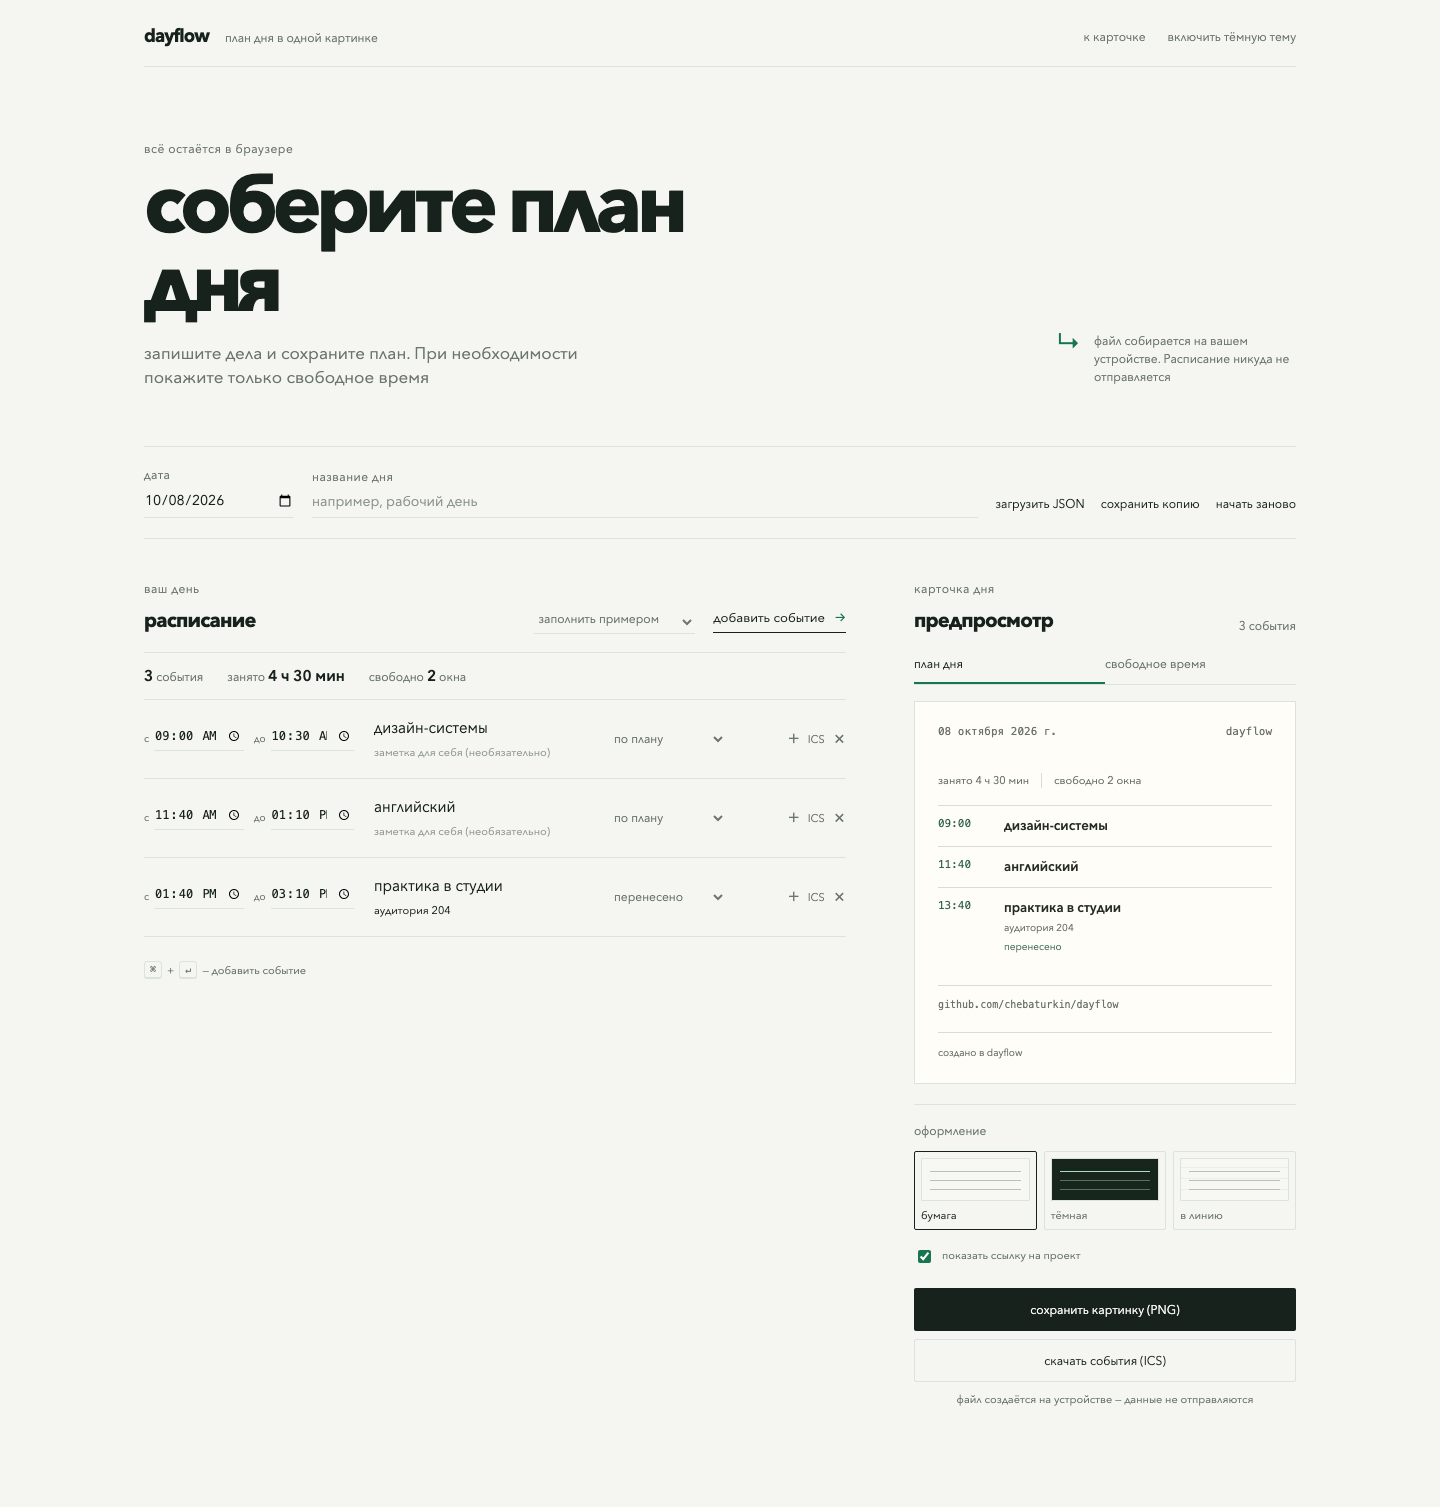
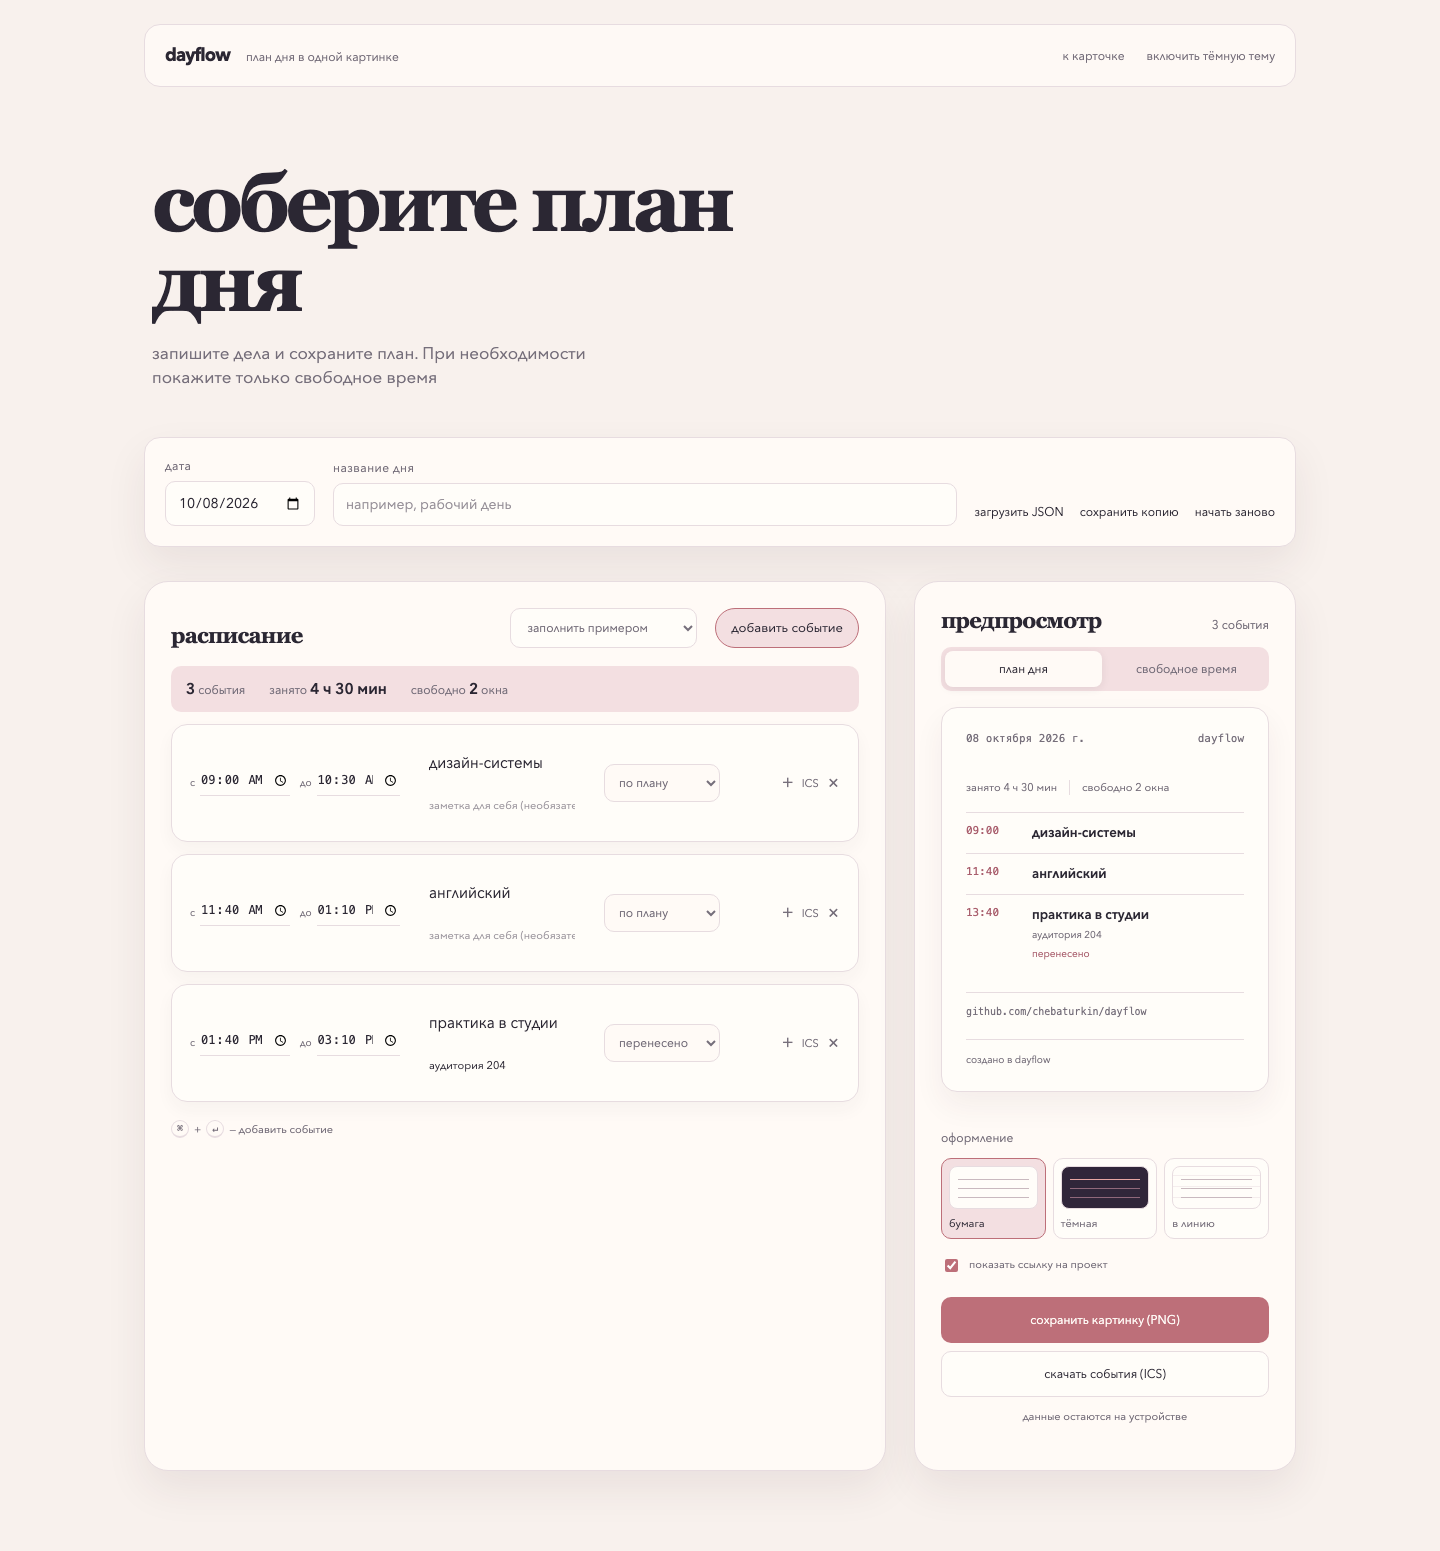
feat: refresh dayflow visual language

diff --git a/src/styles/global.css b/src/styles/global.css
@@ -1,75 +1,60 @@
 :root {
-  --bg: #f5f6f1;
-  --surface: #fbfcf8;
-  --paper: #ffffff;
-  --ink: #18221c;
-  --muted: #6b766e;
-  --line: #dce2dc;
-  --accent: #16764e;
-  --accent-soft: #e4efe7;
-  --warning: #885d2f;
+  --bg: #f8f1ed; --surface: #fffaf6; --paper: #fffdf9; --ink: #2b2733;
+  --muted: #766f7b; --line: #e7dce0; --accent: #bd6f79; --accent-soft: #f3dfe1;
+  --warning: #a76451; --shadow: 0 18px 42px rgba(62, 39, 50, .08);
+  --radius-sm: 10px; --radius-md: 16px; --radius-lg: 24px;
   font-family: "Avenir Next", "Segoe UI", ui-sans-serif, system-ui, sans-serif;
 }
 
 html.dark {
-  --bg: #101a14;
-  --surface: #17251d;
-  --paper: #1b2c22;
-  --ink: #f3f6f0;
-  --muted: #b4c1b8;
-  --line: #3f5747;
-  --accent: #a8dfb9;
-  --accent-soft: #243f2e;
-  --warning: #e1b77e;
+  --bg: #1b1723; --surface: #272131; --paper: #30263a; --ink: #fbf1ee;
+  --muted: #cbbbc3; --line: #4a3a50; --accent: #e6a6a3; --accent-soft: #4a2f3a;
+  --warning: #efb08b; --shadow: 0 18px 42px rgba(5, 3, 10, .26);
 }
 
 * { box-sizing: border-box; }
 html { scroll-behavior: smooth; }
 body { margin: 0; background: var(--bg); color: var(--ink); transition: background .18s ease, color .18s ease; }
 button, input, select { font: inherit; }
-button:focus-visible, a:focus-visible, input:focus-visible, select:focus-visible { outline: 2px solid var(--accent); outline-offset: 4px; }
+button:focus-visible, a:focus-visible, input:focus-visible, select:focus-visible { outline: 3px solid color-mix(in srgb, var(--accent) 52%, transparent); outline-offset: 3px; }
 button { color: inherit; }
 .shell { max-width: 1220px; margin: auto; padding: 24px 34px 80px; }
-.topbar { display: flex; align-items: center; justify-content: space-between; border-bottom: 1px solid var(--line); padding-bottom: 17px; }
+.topbar { display: flex; align-items: center; justify-content: space-between; border: 1px solid var(--line); border-radius: var(--radius-md); background: color-mix(in srgb, var(--surface) 82%, transparent); padding: 18px 20px; }
 .brand { display: flex; align-items: baseline; gap: 16px; }
 .wordmark { color: var(--ink); font-size: 18px; font-weight: 720; letter-spacing: -.05em; text-decoration: none; }
 .brand span, .topbar nav, .quiet-action { color: var(--muted); font-size: 12px; }
 .topbar nav { display: flex; align-items: center; gap: 22px; }
 .topbar a, .topbar button, .quiet-action { border: 0; background: transparent; color: inherit; padding: 0; text-decoration: none; cursor: pointer; }
 .topbar a:hover, .topbar button:hover, .quiet-action:hover { color: var(--ink); }
-.intro { display: flex; align-items: end; justify-content: space-between; gap: 48px; padding: 74px 0 56px; border-bottom: 1px solid var(--line); }
-.eyebrow { margin: 0 0 10px; color: var(--muted); font-size: 12px; letter-spacing: .04em; }
-.intro h1 { max-width: 650px; margin: 0 0 18px; font-size: clamp(44px, 7vw, 82px); font-weight: 680; letter-spacing: -.065em; line-height: .96; }
+.intro { display: flex; align-items: end; justify-content: space-between; gap: 48px; padding: 76px 8px 48px; }
+.intro h1 { max-width: 650px; margin: 0 0 18px; font-family: Georgia, "Times New Roman", serif; font-size: clamp(44px, 7vw, 82px); font-weight: 700; letter-spacing: -.055em; line-height: .98; }
 .lede { max-width: 440px; margin: 0; color: var(--muted); font-size: 17px; line-height: 1.4; }
-.intro-note { display: flex; align-items: flex-start; gap: 14px; max-width: 240px; padding-bottom: 4px; }
-.intro-note p { margin: 0; color: var(--muted); font-size: 12px; line-height: 1.5; }
-.intro-note-mark { color: var(--accent); font: 24px/1 Georgia, serif; }
-.document-bar { display: grid; grid-template-columns: 150px minmax(180px, 1fr) auto; align-items: end; gap: 18px; border-bottom: 1px solid var(--line); padding: 20px 0; }
-.date-field, .label-field { display: flex; flex-direction: column; gap: 7px; }
+.document-bar { display: grid; grid-template-columns: 150px minmax(180px, 1fr) auto; align-items: end; gap: 18px; border: 1px solid var(--line); border-radius: var(--radius-md); background: var(--surface); box-shadow: var(--shadow); padding: 20px; }
+.date-field, .label-field { display: flex; min-width: 0; flex-direction: column; gap: 7px; }
 .date-field span, .label-field span { color: var(--muted); font-size: 12px; letter-spacing: .04em; }
-.date-field input, .label-field input { min-width: 0; border: 0; border-bottom: 1px solid var(--line); border-radius: 0; background: transparent; color: var(--ink); padding: 0 0 6px; font-size: 14px; }
+.date-field input, .label-field input { min-width: 0; border: 1px solid var(--line); border-radius: var(--radius-sm); background: var(--paper); color: var(--ink); padding: 11px 12px; font-size: 14px; }
 .label-field input::placeholder { color: var(--muted); opacity: .75; }
 .document-actions { display: flex; align-items: center; gap: 16px; padding-bottom: 6px; }
-.layout { display: grid; grid-template-columns: minmax(0, 1fr) 382px; gap: 68px; padding-top: 42px; }
+.layout { display: grid; grid-template-columns: minmax(0, 1fr) 382px; gap: 28px; min-width: 0; padding-top: 34px; }
+.planner, .export { min-width: 0; border: 1px solid var(--line); border-radius: var(--radius-lg); background: var(--surface); box-shadow: var(--shadow); padding: 26px; }
 .section-head, .export-head { display: flex; justify-content: space-between; align-items: end; gap: 16px; margin-bottom: 18px; }
-.section-head h2, .export-head h2 { margin: 0; font-size: 20px; font-weight: 650; letter-spacing: -.04em; }
+.section-head h2, .export-head h2 { margin: 0; font-family: Georgia, "Times New Roman", serif; font-size: 22px; font-weight: 700; letter-spacing: -.035em; }
 .head-actions { display: flex; align-items: center; gap: 18px; }
-.preset-label select { border: 0; border-bottom: 1px solid var(--line); background: transparent; color: var(--muted); padding: 0 20px 5px 0; font-size: 12px; cursor: pointer; }
-.text-action { border: 0; border-bottom: 1px solid var(--ink); background: transparent; color: var(--ink); padding: 0 0 5px; cursor: pointer; font-size: 13px; }
-.text-action span { margin-left: 6px; color: var(--accent); }
-.summary-strip { display: flex; flex-wrap: wrap; gap: 24px; border-top: 1px solid var(--line); border-bottom: 1px solid var(--line); padding: 13px 0; color: var(--muted); font-size: 12px; }
+.preset-label select { border: 1px solid var(--line); border-radius: var(--radius-sm); background: var(--paper); color: var(--muted); padding: 10px 32px 10px 12px; font-size: 12px; cursor: pointer; }
+.text-action { border: 1px solid var(--accent); border-radius: 999px; background: var(--accent-soft); color: var(--ink); padding: 10px 15px; cursor: pointer; font-size: 13px; }
+.summary-strip { display: flex; flex-wrap: wrap; gap: 24px; border: 0; border-radius: var(--radius-sm); background: var(--accent-soft); padding: 13px 15px; color: var(--muted); font-size: 12px; }
 .summary-strip strong { color: var(--ink); font-size: 15px; font-weight: 600; }
-.conflict { border-bottom: 1px solid var(--line); color: var(--warning); padding: 11px 0; font-size: 12px; }
-.lesson { display: grid; grid-template-columns: minmax(192px, 210px) minmax(0, 1fr) 116px 102px; gap: 18px; align-items: center; border-bottom: 1px solid var(--line); padding: 17px 0; animation: enter .16s ease both; }
+.conflict { border: 1px solid color-mix(in srgb, var(--warning) 36%, var(--line)); border-radius: var(--radius-sm); background: color-mix(in srgb, var(--warning) 10%, var(--surface)); color: var(--warning); margin-top: 12px; padding: 11px 13px; font-size: 12px; }
+.lesson { display: grid; grid-template-columns: minmax(192px, 210px) minmax(0, 1fr) 116px 102px; gap: 18px; align-items: center; margin-top: 12px; border: 1px solid var(--line); border-radius: var(--radius-md); background: var(--paper); padding: 18px; box-shadow: 0 8px 18px rgba(62, 39, 50, .04); animation: enter .16s ease both; }
 .time-fields { display: grid; grid-template-columns: minmax(0, 1fr) minmax(0, 1fr); gap: 10px; min-width: 0; }
 .time-fields label { display: grid; grid-template-columns: auto minmax(0, 1fr); align-items: center; gap: 5px; min-width: 0; color: var(--muted); font-size: 10px; }
 .time-fields input { width: 100%; min-width: 0; display: block; border: 0; border-bottom: 1px solid var(--line); background: transparent; color: var(--ink); padding: 0 0 5px; font: 12px/1.2 ui-monospace, SFMono-Regular, Menlo, monospace; }
 .lesson-main { min-width: 0; display: grid; gap: 5px; }
-.lesson input:not([type="time"]), .lesson select { width: 100%; min-width: 0; border: 0; background: transparent; color: var(--ink); }
-.lesson .title { font-size: 15px; }
+.lesson input:not([type="time"]), .lesson select { width: 100%; min-width: 0; border: 1px solid transparent; border-radius: var(--radius-sm); background: transparent; color: var(--ink); padding: 9px 10px; }
+.lesson .title { background: var(--surface); font-size: 15px; }
 .lesson .note { color: var(--muted); font-size: 11px; }
 .lesson .note::placeholder { color: var(--muted); opacity: .7; }
-.lesson select { color: var(--muted); font-size: 12px; cursor: pointer; }
+.lesson select { border-color: var(--line); background: var(--surface); color: var(--muted); font-size: 12px; cursor: pointer; }
 .lesson.cancelled .title { color: var(--muted); text-decoration: line-through; }
 .lesson.cancelled .note { opacity: .55; }
 .row-actions { display: flex; justify-content: end; align-items: center; gap: 8px; }
@@ -78,16 +63,16 @@ button { color: inherit; }
 .row-actions .duplicate { font-size: 18px; line-height: 1; }
 .row-actions .remove { font-size: 20px; line-height: 1; }
 .empty-editor { color: var(--muted); font-size: 13px; }
-.keyboard-note { display: flex; align-items: center; gap: 5px; margin-top: 24px; color: var(--muted); font-size: 11px; }
-kbd { border: 1px solid var(--line); border-bottom-width: 2px; border-radius: 3px; padding: 2px 5px; font: 10px ui-monospace, SFMono-Regular, Menlo, monospace; }
+.keyboard-note { display: flex; align-items: center; gap: 5px; margin-top: 18px; color: var(--muted); font-size: 11px; }
+kbd { border: 1px solid var(--line); border-bottom-width: 2px; border-radius: var(--radius-sm); padding: 2px 5px; font: 10px ui-monospace, SFMono-Regular, Menlo, monospace; }
 .export { align-self: start; }
 .export-head { margin-bottom: 14px; }
 .count { color: var(--muted); font-size: 12px; }
-.mode-switch { display: grid; grid-template-columns: 1fr 1fr; border-bottom: 1px solid var(--line); margin-bottom: 16px; }
-.mode { border: 0; border-bottom: 2px solid transparent; background: transparent; color: var(--muted); padding: 8px 0 10px; cursor: pointer; font-size: 12px; text-align: left; }
-.mode.active { border-bottom-color: var(--accent); color: var(--ink); }
-.preview-card { --card-paper: #fffdf8; --card-ink: #252b25; --card-muted: #697168; --card-line: #d9ddd4; --card-accent: #326249; min-height: 370px; background: var(--card-paper); border: 1px solid var(--line); color: var(--card-ink); padding: 23px; transition: background .18s ease, color .18s ease; }
-.preview-card[data-style="dark"] { --card-paper: #202720; --card-ink: #f4f3eb; --card-muted: #bac2b5; --card-line: #475145; --card-accent: #bad1ae; background: var(--card-paper); }
+.mode-switch { display: grid; grid-template-columns: 1fr 1fr; gap: 6px; border: 0; border-radius: var(--radius-sm); background: var(--accent-soft); margin-bottom: 16px; padding: 4px; }
+.mode { border: 0; border-radius: 8px; background: transparent; color: var(--muted); padding: 10px 12px; cursor: pointer; font-size: 12px; text-align: center; }
+.mode.active { background: var(--surface); color: var(--ink); box-shadow: 0 2px 8px rgba(43, 39, 51, .08); }
+.preview-card { --card-paper: #fffdf9; --card-ink: #2b2733; --card-muted: #766f7b; --card-line: #e7dce0; --card-accent: #a95e6d; min-height: 370px; background: var(--card-paper); border: 1px solid var(--line); border-radius: var(--radius-md); color: var(--card-ink); padding: 24px; box-shadow: 0 14px 30px rgba(62, 39, 50, .06); transition: background .18s ease, color .18s ease; }
+.preview-card[data-style="dark"] { --card-paper: #30263a; --card-ink: #fbf1ee; --card-muted: #cbbbc3; --card-line: #4a3a50; --card-accent: #e6a6a3; background: var(--card-paper); }
 .preview-card[data-style="lines"] { background: repeating-linear-gradient(0deg, var(--card-paper), var(--card-paper) 39px, var(--card-line) 40px); }
 .preview-card[data-mode="availability"] .card-line.free { background: var(--accent-soft); background: color-mix(in srgb, var(--card-accent) 14%, transparent); }
 .preview-card[data-mode="availability"] .card-line.free strong { color: var(--card-accent); }
@@ -108,26 +93,26 @@ kbd { border: 1px solid var(--line); border-bottom-width: 2px; border-radius: 3p
 .repo-link:hover { color: var(--card-ink); }
 .card-footer { border-top: 1px solid var(--card-line); margin-top: 22px; padding-top: 13px; color: var(--card-muted); font-size: 10px; }
 .empty { color: var(--card-muted); font-size: 13px; }
-.export-options { border-top: 1px solid var(--line); margin-top: 20px; padding-top: 18px; }
+.export-options { border-top: 0; margin-top: 20px; padding-top: 18px; }
 .option-label { color: var(--muted); font-size: 12px; margin: 0 0 12px; }
 .styles { display: grid; grid-template-columns: repeat(3, 1fr); gap: 7px; margin-bottom: 18px; }
-.style { display: flex; flex-direction: column; gap: 7px; border: 1px solid var(--line); border-radius: 2px; background: transparent; color: var(--muted); padding: 6px; cursor: pointer; font-size: 11px; text-align: left; }
-.style.active { border-color: var(--ink); color: var(--ink); }
-.mini-card { display: block; position: relative; width: 100%; height: 43px; overflow: hidden; border: 1px solid var(--line); border-radius: 1px; background: #f7f7f3; }
-.mini-card::after { position: absolute; top: 12px; right: 8px; left: 8px; height: 1px; background: #b7c1b9; box-shadow: 0 9px #b7c1b9, 0 18px #b7c1b9; content: ''; }
-.mini-dark { background: #17251d; }
-.mini-dark::after { background: #a8e0b9; box-shadow: 0 9px #557460, 0 18px #557460; }
-.mini-lines { background: repeating-linear-gradient(0deg, #f7f7f3, #f7f7f3 10px, #dfe4df 11px); }
+.style { display: flex; flex-direction: column; gap: 7px; border: 1px solid var(--line); border-radius: var(--radius-sm); background: var(--paper); color: var(--muted); padding: 7px; cursor: pointer; font-size: 11px; text-align: left; }
+.style.active { border-color: var(--accent); background: var(--accent-soft); color: var(--ink); }
+.mini-card { display: block; position: relative; width: 100%; height: 43px; overflow: hidden; border: 1px solid var(--line); border-radius: 8px; background: #fffdf9; }
+.mini-card::after { position: absolute; top: 12px; right: 8px; left: 8px; height: 1px; background: #c9b9bf; box-shadow: 0 9px #c9b9bf, 0 18px #c9b9bf; content: ''; }
+.mini-dark { background: #30263a; }
+.mini-dark::after { background: #e6a6a3; box-shadow: 0 9px #8f687b, 0 18px #8f687b; }
+.mini-lines { background: repeating-linear-gradient(0deg, #fffdf9, #fffdf9 10px, #eadde1 11px); }
 .check { display: flex; align-items: flex-start; gap: 8px; color: var(--muted); cursor: pointer; font-size: 11px; line-height: 1.4; }
 .check input { accent-color: var(--accent); margin-top: 2px; }
 .export-actions { display: grid; gap: 8px; margin-top: 22px; }
-.primary, .secondary { width: 100%; height: 43px; border-radius: 2px; cursor: pointer; font-size: 12px; }
-.primary { border: 0; background: var(--ink); color: var(--bg); }
-.primary:hover { background: var(--accent); color: var(--bg); }
-.secondary { border: 1px solid var(--line); background: transparent; color: var(--ink); }
-.secondary:hover { border-color: var(--ink); }
+.primary, .secondary { width: 100%; height: 46px; border-radius: var(--radius-sm); cursor: pointer; font-size: 12px; }
+.primary { border: 0; background: var(--accent); color: #fffaf6; }
+.primary:hover { background: color-mix(in srgb, var(--accent) 84%, var(--ink)); color: #fffaf6; }
+.secondary { border: 1px solid var(--line); background: var(--paper); color: var(--ink); }
+.secondary:hover { border-color: var(--accent); background: var(--accent-soft); }
 .hint, .save-status { min-height: 15px; color: var(--muted); font-size: 11px; text-align: center; }
-.hint { margin: 10px 0 0; }
+.hint { display: flex; justify-content: center; align-items: center; gap: 6px; margin: 12px 0 0; }
 .save-status { margin: 5px 0 0; }
 .sr-only { position: absolute; width: 1px; height: 1px; overflow: hidden; clip: rect(0 0 0 0); white-space: nowrap; }
 @keyframes enter { from { opacity: 0; transform: translateY(4px); } to { opacity: 1; transform: none; } }
@@ -142,11 +127,12 @@ kbd { border: 1px solid var(--line); border-bottom-width: 2px; border-radius: 3p
   .topbar nav { gap: 14px; }
   .intro { display: block; padding: 55px 0 42px; }
   .intro h1 { font-size: 49px; }
-  .intro-note { margin-top: 30px; }
-  .document-bar { grid-template-columns: 1fr 1fr; align-items: end; }
-  .document-actions { grid-column: 1 / -1; justify-content: space-between; padding-top: 8px; }
+  .document-bar { grid-template-columns: 1fr 1fr; align-items: end; border-radius: var(--radius-md); }
+  .planner, .export { padding: 18px; }
+  .document-actions { grid-column: 1 / -1; justify-content: flex-start; flex-wrap: wrap; gap: 8px 12px; padding-top: 8px; }
   .section-head { align-items: start; }
-  .head-actions { align-items: end; flex-direction: column-reverse; gap: 10px; }
+  .head-actions { align-items: stretch; flex-direction: column; gap: 10px; width: 100%; }
+  .preset-label, .preset-label select { width: 100%; }
   .lesson { grid-template-columns: minmax(0, 1fr) auto; gap: 10px 14px; }
   .time-fields { width: min(100%, 232px); }
   .lesson-main { grid-column: 1 / -1; grid-row: 2; }

diff --git a/docs/superpowers/plans/2026-10-08-dayflow-visual-refresh.md b/docs/superpowers/plans/2026-10-08-dayflow-visual-refresh.md
@@ -25,7 +25,7 @@
 </section>
 ```
 
-- [ ] Replace the export hint with `<p class="hint"><span aria-hidden="true">⌁</span> данные остаются на устройстве</p>`, keeping the existing `hint` and `save-status` classes.
+- [ ] Replace the export hint with plain text `<p class="hint">данные остаются на устройстве</p>`, keeping the existing `hint` and `save-status` classes so the privacy copy stays neutral and free of decorative symbols.
 - [ ] Keep `ваш день` and `карточка дня` as useful section landmarks; their visual weight is adjusted in CSS.
 - [ ] Run `rg -n "всё остаётся|тихий ритм|intro-note|intro-note-mark|↳" src/pages/index.astro`; expect no matches.
 - [ ] Commit with `git add src/pages/index.astro && git commit -m "refactor: simplify dayflow hero copy"`.
@@ -74,7 +74,7 @@ html.dark {
 
 - [ ] Update `.preview-card` to warm paper variables (`#fffdf9`, `#2b2733`, `#766f7b`, `#e7dce0`, `#a95e6d`), `border-radius: var(--radius-md)`, and a soft shadow. Update dark preview values to `#30263a`, `#fbf1ee`, `#cbbbc3`, `#4a3a50`, `#e6a6a3`.
 - [ ] Round `.style`, `.mini-card`, `.primary`, and `.secondary` using `var(--radius-sm)` or `var(--radius-md)`. Use rose active/hover states and preserve labels and IDs.
-- [ ] Style `.hint` as a centered quiet line with `display: flex`, `gap: 6px`, and rose `span`; do not add arrows.
+- [ ] Style `.hint` as a centered quiet line with muted text and no decorative arrow or symbol.
 - [ ] Run `rg -n "intro-note|intro-note-mark|↳|#16764e|#326249" src/pages/index.astro src/styles/global.css`; expect no matches.
 - [ ] Commit with `git add src/styles/global.css src/pages/index.astro && git commit -m "style: polish dayflow preview and export controls"`.
 
